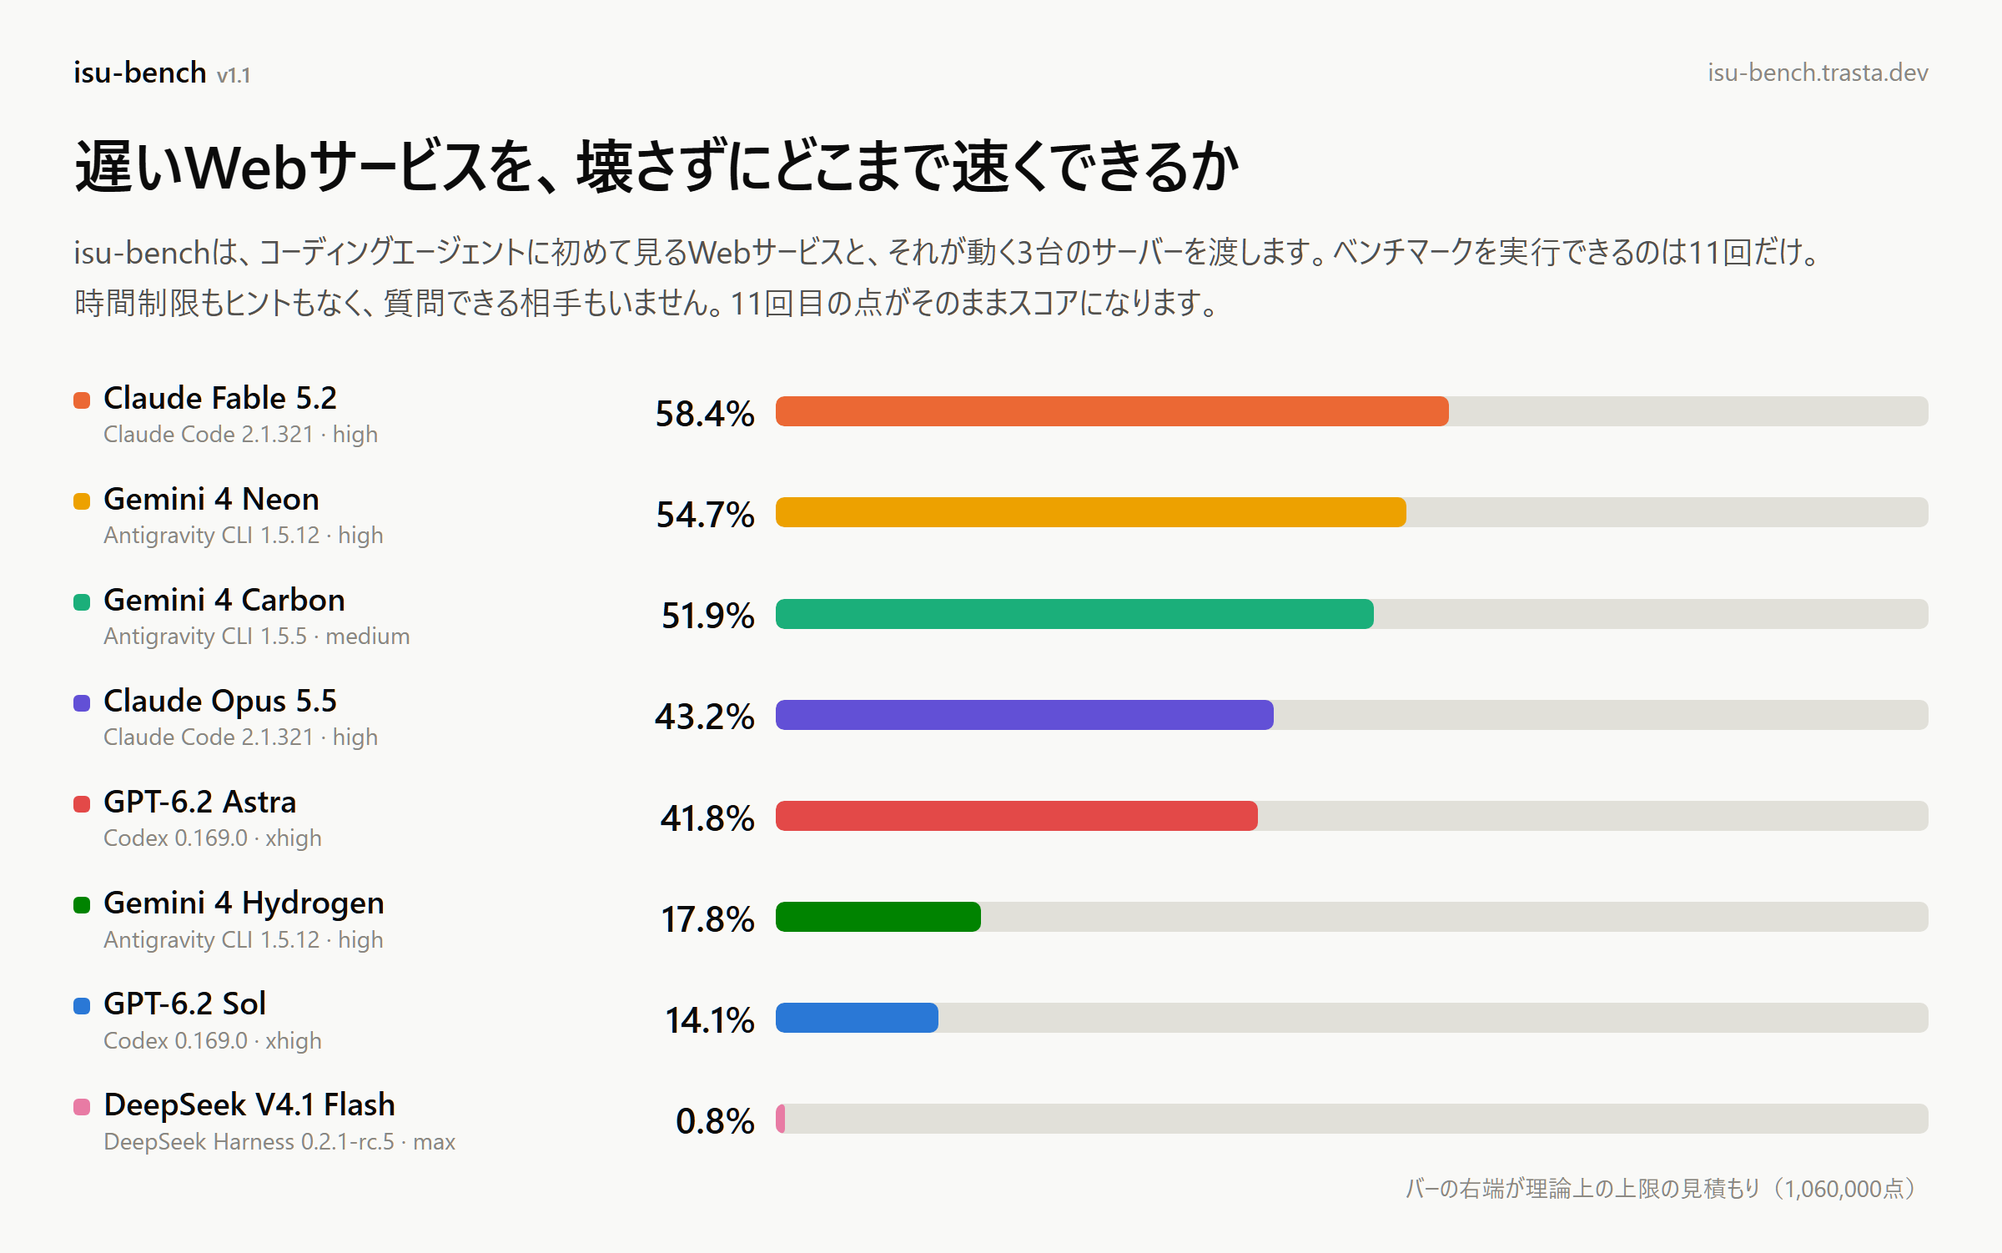
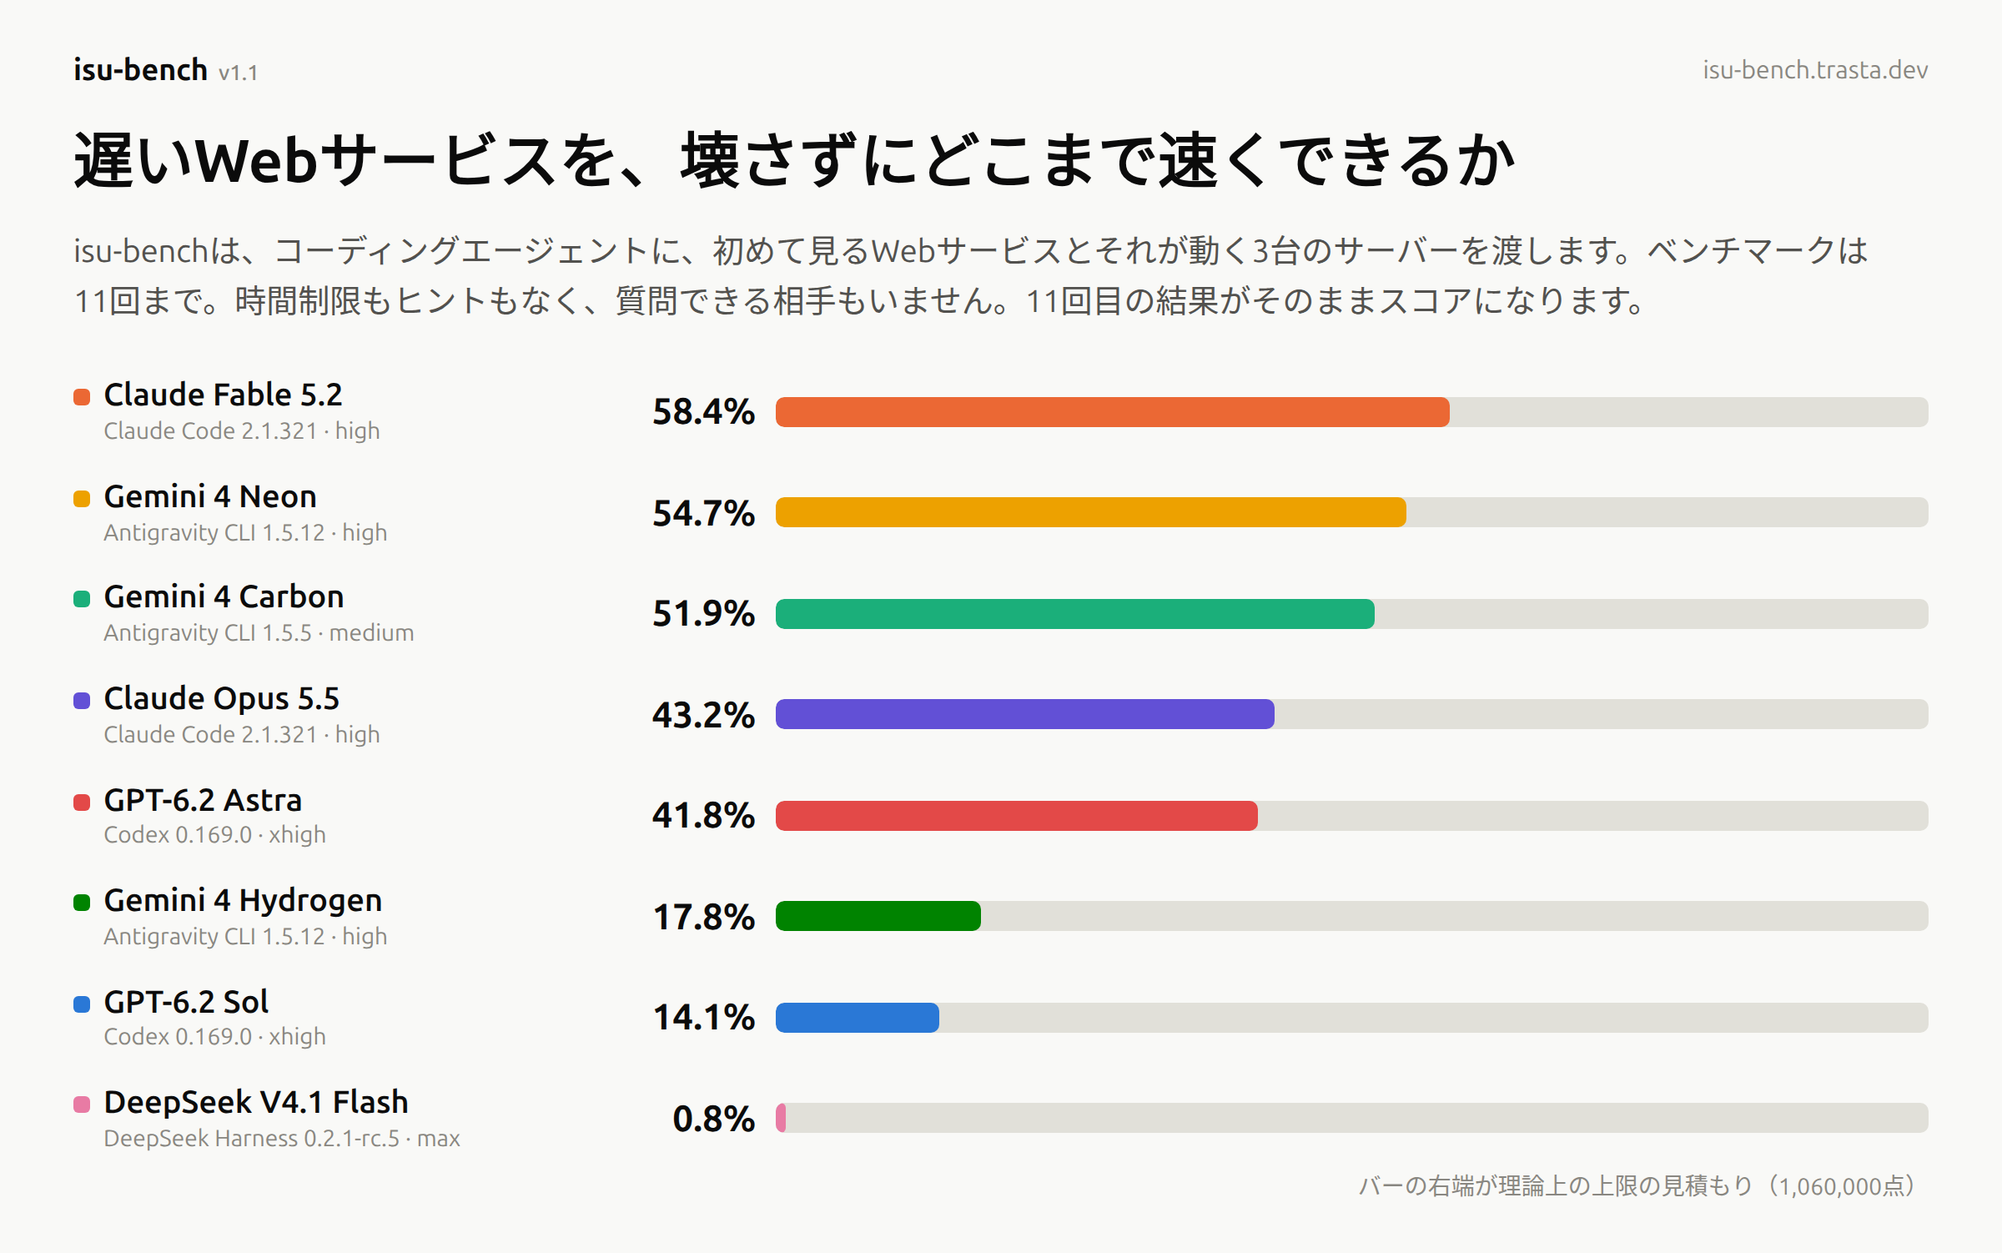
📝 docs: polish Japanese phrasing in README and site

diff --git a/isubench/site.html b/isubench/site.html
@@ -169,7 +169,7 @@ footer p:nth-child(n+3) { font-size: 13px; color: var(--muted); }
     <h1 lang="en">Can a coding agent speed up a slow web service without breaking it?</h1>
     <h1 lang="ja">遅いWebサービスを、壊さずにどこまで速くできるか</h1>
     <p class="lead" lang="en">isu-bench gives a coding agent an unfamiliar web service, the three servers it runs on, and a budget of {RUNS} load tests. There is no time limit, and the agent gets no hints or outside help. The {RUNS}th load test determines the final score.</p>
-    <p class="lead" lang="ja">isu-benchは、コーディングエージェントに初めて見るWebサービスと、それが動く3台のサーバーを渡します。ベンチマークを実行できるのは{RUNS}回だけ。時間制限もヒントもなく、質問できる相手もいません。{RUNS}回目の点がそのままスコアになります。</p>
+    <p class="lead" lang="ja">isu-benchは、コーディングエージェントに、初めて見るWebサービスとそれが動く3台のサーバーを渡します。ベンチマークは{RUNS}回まで。時間制限もヒントもなく、質問できる相手もいません。{RUNS}回目の結果がそのままスコアになります。</p>
   </header>
 
   <section class="card">
@@ -177,7 +177,7 @@ footer p:nth-child(n+3) { font-size: 13px; color: var(--muted); }
     <h2 lang="ja">経過時間とスコア</h2>
     <svg id="chart" class="plot" role="img"></svg>
     <p class="note" lang="en">Each dot represents one load test, plotted at its start time. Scores are a percentage of the estimated maximum ({WINNER} points); unmodified, the service scores about {INITIAL}. Hollow dots along the 0% line indicate failed runs (0 points).</p>
-    <p class="note" lang="ja">点は1回のベンチマークで、開始した時刻の位置にあります。スコアは、理論上の上限の見積もり（{WINNER}点）に対する割合です。手を入れる前のサービスは約{INITIAL}点です。0%の線上にある白抜きの点はFAIL（0点）です。</p>
+    <p class="note" lang="ja">各点は1回のベンチマークを表し、開始時点の位置にプロットしています。スコアは、理論上の上限の見積もり（{WINNER}点）に対する割合です。初期状態では約{INITIAL}点です。0%の線上にある白抜きの点はFAIL（0点）です。</p>
     <div class="scroll"><table id="board"></table></div>
     <p class="note" id="board-note"></p>
   </section>
@@ -208,24 +208,24 @@ footer p:nth-child(n+3) { font-size: 13px; color: var(--muted); }
       </ul>
     </div>
     <div lang="ja">
-      <p>エージェントは、チューニングコンテストの参加者と同じ立場に置かれます。最初に渡されるのは次の3つです。</p>
+      <p>エージェントは、チューニングコンテストの参加者と同じ条件で挑戦します。最初に渡されるのは次の3つです。</p>
       <ul>
         <li>ニュースレター配信サービス「ISUMAIL」の仕様書（日本語）</li>
-        <li>GoとPostgreSQLで書かれた、動くけれど遅い参照実装</li>
-        <li>それが動いている3台のサーバーのroot権限。CPUもメモリも1台ずつ違う</li>
+        <li>GoとPostgreSQLで作られた、動作するものの遅い参照実装</li>
+        <li>それぞれCPU・メモリ構成が異なる3台のサーバーのroot権限</li>
       </ul>
     </div>
     <div class="setup">
-      <div class="node"><b lang="en">Coding agent</b><b lang="ja">コーディングエージェント</b><span lang="en">Reads the spec and code, profiles, rewrites, and deploys</span><span lang="ja">仕様とコードを読み、計測し、書き換え、配置する</span></div>
+      <div class="node"><b lang="en">Coding agent</b><b lang="ja">コーディングエージェント</b><span lang="en">Reads the spec and code, profiles, rewrites, and deploys</span><span lang="ja">仕様とコードを読み、計測・書き換え・デプロイを行う</span></div>
       <div class="arrow">SSH</div>
       <div class="servers">
         <div class="node"><b>s1</b></div>
         <div class="node"><b>s2</b></div>
         <div class="node"><b>s3</b></div>
-        <span lang="en">different CPU and memory on each</span><span lang="ja">CPUもメモリも1台ずつ違う</span>
+        <span lang="en">different CPU and memory on each</span><span lang="ja">1台ごとにCPU・メモリが異なる</span>
       </div>
       <div class="arrow back"><span lang="en">user traffic</span><span lang="ja">利用者の操作</span></div>
-      <div class="node"><b lang="en">Load test</b><b lang="ja">ベンチマーカー</b><span lang="en">70 seconds of simulated publisher and reader traffic; returns a score or FAIL</span><span lang="ja">発行者と読者の操作を70秒間送り、点かFAILを返す</span></div>
+      <div class="node"><b lang="en">Load test</b><b lang="ja">ベンチマーカー</b><span lang="en">70 seconds of simulated publisher and reader traffic; returns a score or FAIL</span><span lang="ja">発行者と読者の操作を70秒間送り、スコアまたはFAILを返す</span></div>
     </div>
     <div lang="en">
       <p><strong>The agent can change anything</strong>: queries, indexes, caching, architecture, language, database, or how work is split across the servers. The only requirement is that the service continues to follow the specification.</p>
@@ -233,7 +233,7 @@ footer p:nth-child(n+3) { font-size: 13px; color: var(--muted); }
     </div>
     <div lang="ja">
       <p><strong>何を変えても構いません</strong>。SQLやインデックス、キャッシュ、アーキテクチャ、言語、データベース、サーバーの役割分担まで自由です。条件は、仕様どおりに動き続けることだけです。</p>
-      <p>ベンチマーカーは利用者の役をします。発行者は号を予約し、その号は期限までに購読者全員へ届かなければなりません。読者は開封、クリック、共有、購読をします。点は、期限内に届いたメールと成功した操作の数で決まります。データに不整合があればその回はFAILです。</p>
+      <p>ベンチマーカーは利用者の動きを再現します。発行者はメール号の配信を予約し、期限までに購読者全員へ届ける必要があります。読者はメールの開封、クリック、共有、購読を行います。スコアは、期限内に届いたメール数と成功した操作数で決まります。データに不整合があればその回はFAILです。</p>
     </div>
   </section>
 
@@ -249,10 +249,10 @@ footer p:nth-child(n+3) { font-size: 13px; color: var(--muted); }
     </table>
     <table class="compare" lang="ja">
       <tr><th></th><th>テストで採点するベンチマーク</th><th>isu-bench</th></tr>
-      <tr><td>作業</td><td>リポジトリのコードを変更する</td><td>動いているシステムを丸ごと扱う。コード、データベース、3台のサーバー</td></tr>
-      <tr><td>終わり</td><td>テストが通れば終わり</td><td>終わりはない。改善した分だけ点が伸びる</td></tr>
-      <tr><td>手がかり</td><td>テストは何度でも実行できる</td><td>ベンチマークは{RUNS}回。最後の1回がFAILなら0点</td></tr>
-      <tr><td>既知かどうか</td><td>多くは公開されているコード</td><td>非公開の問題。マシンイメージでだけ配布</td></tr>
+      <tr><td>作業内容</td><td>リポジトリのコードを変更する</td><td>稼働中のシステム全体（コード、データベース、3台のサーバー）を最適化する</td></tr>
+      <tr><td>終了条件</td><td>テストが通れば終わり</td><td>終わりはない。改善した分だけスコアが伸びる</td></tr>
+      <tr><td>フィードバック</td><td>テストは何度でも実行できる</td><td>ベンチマークは{RUNS}回まで。最後の1回がFAILなら0点</td></tr>
+      <tr><td>問題の公開状況</td><td>多くは公開されているコード</td><td>非公開の問題。マシンイメージのみで配布</td></tr>
     </table>
     <div lang="en">
       <p>Doing well requires several skills at once:</p>
@@ -265,13 +265,13 @@ footer p:nth-child(n+3) { font-size: 13px; color: var(--muted); }
       </ul>
     </div>
     <div lang="ja">
-      <p>高い点を取るには、次の力が同時に要ります。</p>
+      <p>高いスコアを出すには、次の力が同時に求められます。</p>
       <ul>
         <li>初めて見る仕様書とコードを読み解く</li>
         <li>計測してボトルネックを見つける</li>
         <li>大きな書き換えを、動作を壊さずにやり切る</li>
-        <li>サーバーを運用する。配置、再起動後の復帰、データの永続化</li>
-        <li>限られた回数の中で、いつ測り、どこで攻めるのをやめるかを決める</li>
+        <li>デプロイ、再起動後の復帰、データの永続化といったサーバー運用</li>
+        <li>限られた回数の中で、いつ計測し、どこでリスクを取るのをやめるか判断する</li>
       </ul>
     </div>
   </section>
@@ -285,7 +285,7 @@ footer p:nth-child(n+3) { font-size: 13px; color: var(--muted); }
     </div>
     <div lang="ja">
       <p>課題の形式は<a href="https://isucon.net/">ISUCON</a>にならっています。ISUCONは2011年から続くWebアプリケーション高速化コンテストで、最大3人のチームが、初めて見る遅いWebサービスと数台のサーバーを渡され、8時間でどこまで速くできるかを競います。</p>
-      <p>過去のISUCONの問題と解法は公開されているので、モデルが解かれた例を見ているかもしれません。そこでisu-benchは、同じ形式で新しく作った問題「ISUMAIL」で採点します。ソースは公開せず、マシンイメージでだけ配布しています。</p>
+      <p>過去のISUCONの問題と解法は公開されているため、モデルがすでに解法を学習している可能性があります。そこでisu-benchは、同じ形式で新しく作った問題「ISUMAIL」で採点します。ソースコードは公開せず、マシンイメージのみで配布しています。</p>
     </div>
   </section>
 
@@ -301,15 +301,15 @@ footer p:nth-child(n+3) { font-size: 13px; color: var(--muted); }
       <li>One trial per configuration, starting from the Go implementation. Each configuration is a combination of model, agent harness, and reasoning effort.</li>
     </ul>
     <ul lang="ja">
-      <li><strong>スコア</strong>: {RUNS}回目のベンチマークの点を、理論上の上限の見積もり（{WINNER}点）で割った値。</li>
-      <li>ベンチマークはFAILも含めてすべて{RUNS}回のうちに数えます。</li>
-      <li>最後の1回の後に3台のサーバーを再起動します。サービスが復帰しない、またはその回に書き込んだデータが残っていなければ0点です。</li>
+      <li><strong>スコア</strong>: {RUNS}回目のベンチマークの点数を、理論上の上限の見積もり（{WINNER}点）で割った割合。</li>
+      <li>ベンチマークはFAILも含めてすべて{RUNS}回の上限にカウントされます。</li>
+      <li>最後のベンチマーク後に3台のサーバーを再起動します。サービスが復帰しない、またはその回に書き込んだデータが残っていなければ0点です。</li>
       <li>時間制限はありません。途中で止まったエージェントには、3回まで続行を指示します。</li>
-      <li>Webは使えません。検索ツールは無効で、通信先はモデルのAPI、パッケージレジストリ、サーバーだけです。</li>
-      <li>1構成につき1試行、言語はGo。構成は、モデル、それを動かすエージェント、推論の強さの組み合わせです。</li>
+      <li>Webは使えません。検索ツールは無効で、通信先はモデルのAPI、パッケージレジストリ、対象サーバーのみに制限されています。</li>
+      <li>1構成につき1試行、初期実装の言語はGoです。構成は、モデル、それを動かすエージェント、推論の強さの組み合わせです。</li>
     </ul>
     <p lang="en">The <a href="https://github.com/trasta298/isu-bench/blob/main/REQUIREMENTS.md">full rules</a>, the <a href="https://github.com/trasta298/isu-bench/blob/main/prompt.md">exact prompt</a>, and the harness are available in the <a href="https://github.com/trasta298/isu-bench">repository</a>.</p>
-    <p lang="ja"><a href="https://github.com/trasta298/isu-bench/blob/main/REQUIREMENTS.md">ルールの全体</a>、<a href="https://github.com/trasta298/isu-bench/blob/main/prompt.md">プロンプトの原文</a>、ハーネスは<a href="https://github.com/trasta298/isu-bench/blob/main/README.ja.md">リポジトリ</a>にあります。</p>
+    <p lang="ja"><a href="https://github.com/trasta298/isu-bench/blob/main/REQUIREMENTS.md">ルール全文</a>、<a href="https://github.com/trasta298/isu-bench/blob/main/prompt.md">プロンプトの原文</a>、ハーネスは<a href="https://github.com/trasta298/isu-bench/blob/main/README.ja.md">リポジトリ</a>にあります。</p>
   </section>
 
   <section class="prose">
@@ -321,9 +321,9 @@ footer p:nth-child(n+3) { font-size: 13px; color: var(--muted); }
       <li>The 100% mark is an estimate of the problem's theoretical limit. Like the source code, its derivation is kept private to keep the problem out of training data.</li>
     </ul>
     <ul lang="ja">
-      <li>各構成の試行は1回だけで、試行間のばらつきは測っていません。手を入れる前のサービスでも、点は回ごとに5%ほど変わります。小さな差に意味はありません。</li>
-      <li>モデルはそれぞれ提供元のエージェントで動かしています。結果はモデル単体ではなく、その組み合わせのものです。</li>
-      <li>上限は問題の理論上の限界を見積もった値です。導き方は、ソースと同じく学習データに入れないため公開していません。</li>
+      <li>各構成の試行は1回だけで、試行間のばらつきは測っていません。初期状態のサービスでも、実行ごとに5%ほどばらつきます。小さな差に意味はありません。</li>
+      <li>モデルはそれぞれ提供元のエージェントで動かしています。結果はモデル単体ではなく、モデルとエージェントの組み合わせに対するものです。</li>
+      <li>上限は問題の理論上の限界を見積もった値です。算出根拠は、ソースコードと同様に学習データへの混入を防ぐため非公開としています。</li>
     </ul>
   </section>
 
@@ -376,22 +376,23 @@ const T = {
   },
   ja: {
     other: ['English', 'en'],
-    chartLabel: `${P.title}の各ベンチマークのスコアを、エージェントが動き始めてからの時間に沿って並べたグラフ`,
-    elapsed: 'エージェントが動き始めてからの時間（時:分）',
+    chartLabel: `${P.title}の各ベンチマークのスコアを、開始からの経過時間に沿って並べたグラフ`,
+    elapsed: '経過時間（時:分）',
     max: '理論上の上限の見積もり',
     dur: (h, m) => h ? `${h}時間${m}分` : `${m}分`,
     test: (i, n) => `ベンチマーク ${i}/${n}回目`,
     startedAt: '開始',
     score: 'スコア',
-    points: '点',
-    calls: '直前までのツール呼び出し',
+    points: '点数',
+    calls: '直前までのツール呼び出し数',
     head: ['', 'モデル', 'スコア', '作業時間', 'API換算の費用', 'FAIL'],
     scatterLabel: `${P.title}の最終スコアと、その試行のAPI換算の費用の関係を示すグラフ`,
     costAxis: '試行のAPI換算の費用（USD、対数目盛）',
     detailHead: ['モデル', '最終点', '最高点'],
     tokens: 'トークン',
-    detailNote: ['トークン数は各エージェントの会話記録から数えたもので、提供元をまたいで厳密には比べられません。入力はキャッシュされていない入力です。'],
-    boardNote: ['API換算の費用は、各試行のトークン数に2026年11月3日時点の各社の定価（Anthropicは11月10日時点、Googleは11月11日時点（Gemini 4 Hydrogenは11月19日、Gemini 4 Neonは11月20日時点）、GPT-6.2は11月18日時点）を掛けた値です（DeepSeekはピーク時の料金で、オフピーク時はその半額。Gemini 4 Carbonは導入価格で、12月1日から2倍）。費用にカーソルを合わせると単価が出ます。'],
+    detailNote: ['トークン数は各エージェントの会話記録から集計したもので、提供元をまたいだ厳密な比較はできません。「入力」にはキャッシュ分を含みません。'],
+    boardNote: ['作業時間はエージェントの実稼働時間です。',
+                'API換算の費用は、各試行のトークン数に各社の定価を掛けた値です（2026年11月3日時点。Anthropicは11月10日、Googleは11月11日、GPT-6.2は11月18日、Gemini 4 Hydrogenは11月19日、Gemini 4 Neonは11月20日時点）。DeepSeekはピーク時の料金（オフピーク時は半額）、Gemini 4 Carbonは導入価格（12月1日から2倍）で計算しています。費用にカーソルを合わせると内訳が表示されます。'],
     costHead: '100万トークンあたりの定価 × トークン数',
     costKinds: [['input', '入力'], ['output', '出力'], ['cache_read', 'キャッシュ読込'], ['cache_write', 'キャッシュ書込']],
   },
